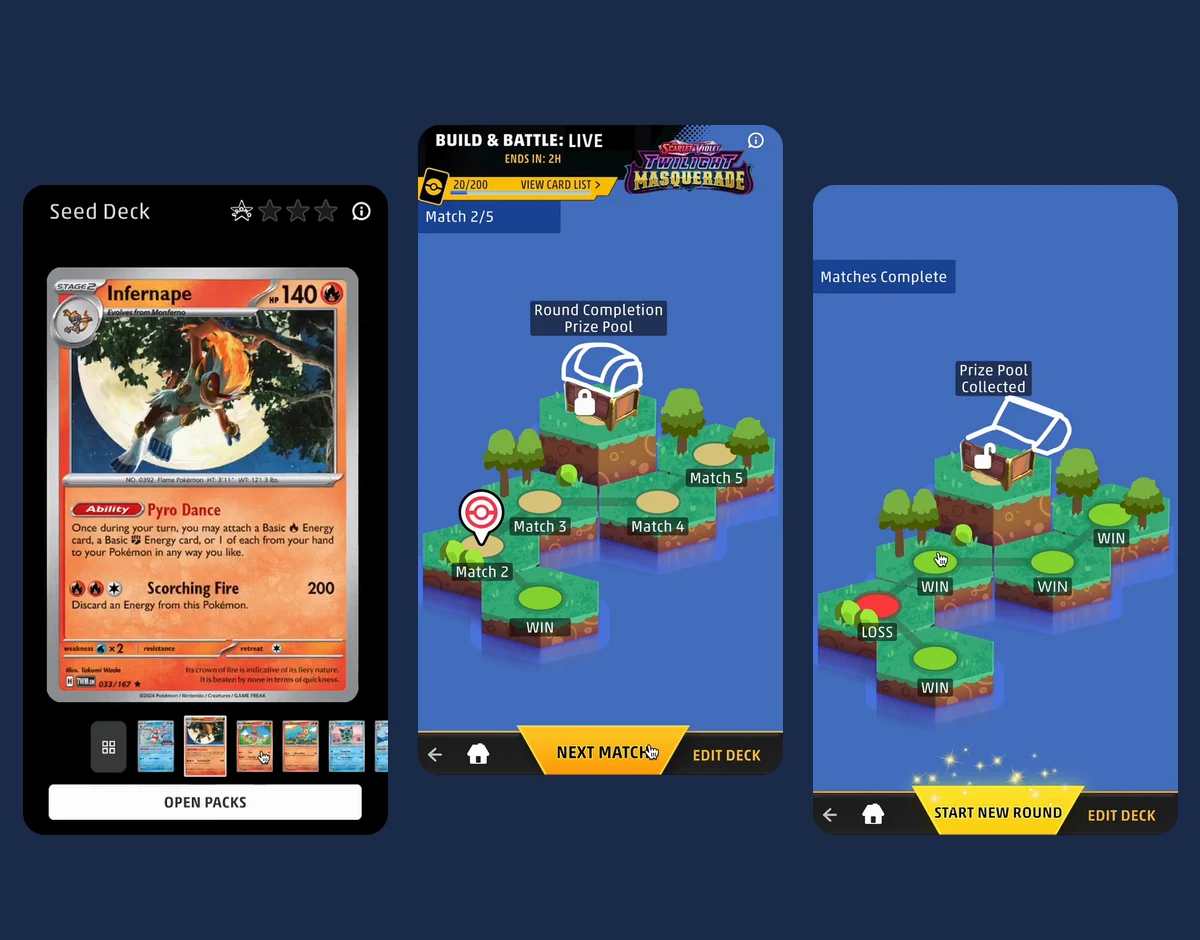
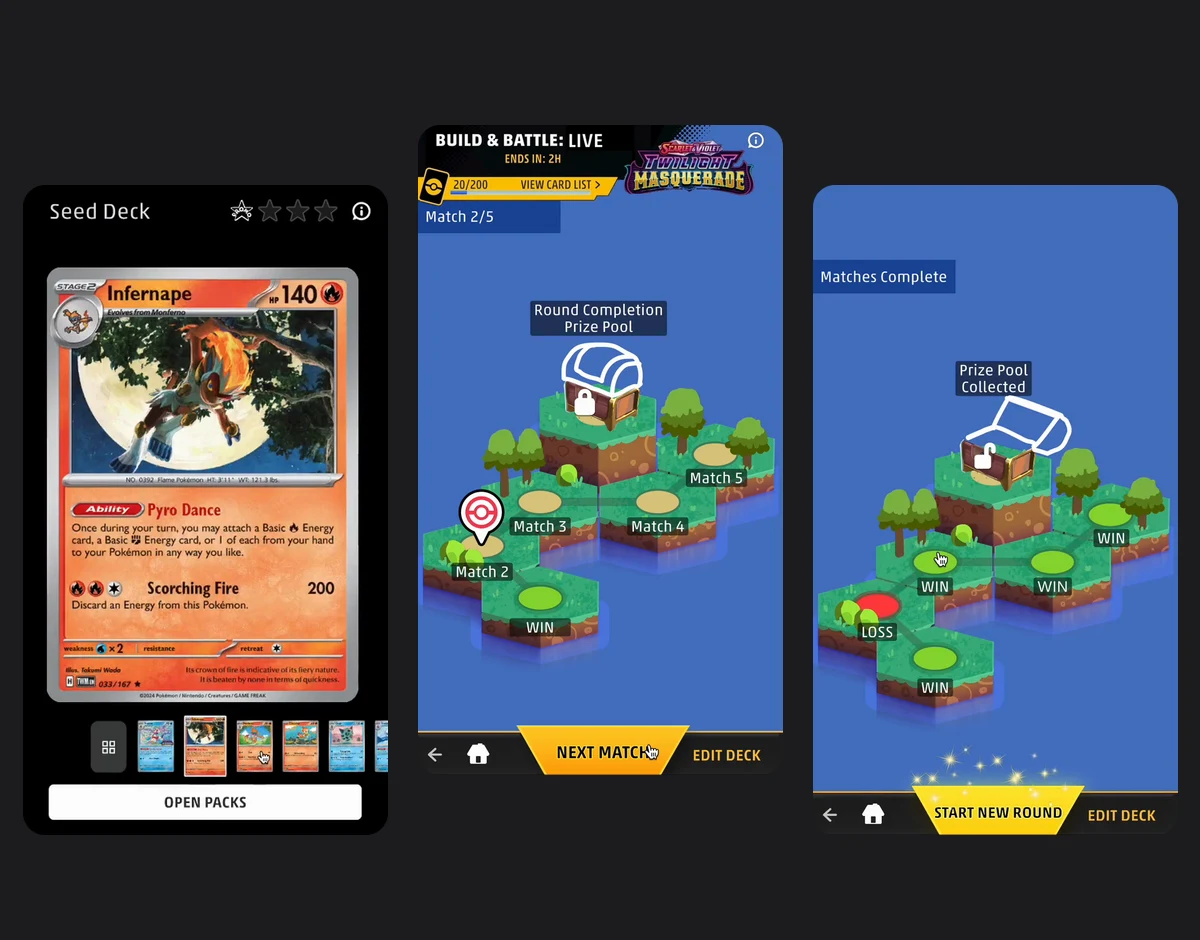
Charcoal instead of dark blue; Research Missions results
- Dark mode, Builds, proof strip, next-case band and dark project pages use a
  neutral charcoal palette; covers with navy baked in were re-rendered
- Card Dex case study adds Research Missions adoption, depth and Card Dex
  activity numbers

diff --git a/src/styles/global.css b/src/styles/global.css
@@ -57,8 +57,8 @@
 @media (prefers-color-scheme: dark) {
   :root:not([data-theme="light"]) {
     color-scheme: dark;
-    --bg: #0e1016; --page-gray: #161922; --band: #12141b; --heading: #fff;
-    --ink: #eef0f5; --text: #c4c8d2; --muted: #9097a5; --line: #2a2e3a; --card-bg: #222632;
+    --bg: #121214; --page-gray: #1c1c1f; --band: #18181b; --heading: #fff;
+    --ink: #ececef; --text: #c6c6cc; --muted: #9a9aa2; --line: #2c2c31; --card-bg: #26262a;
     --pink-ink: #ff6fae;
   }
 }
